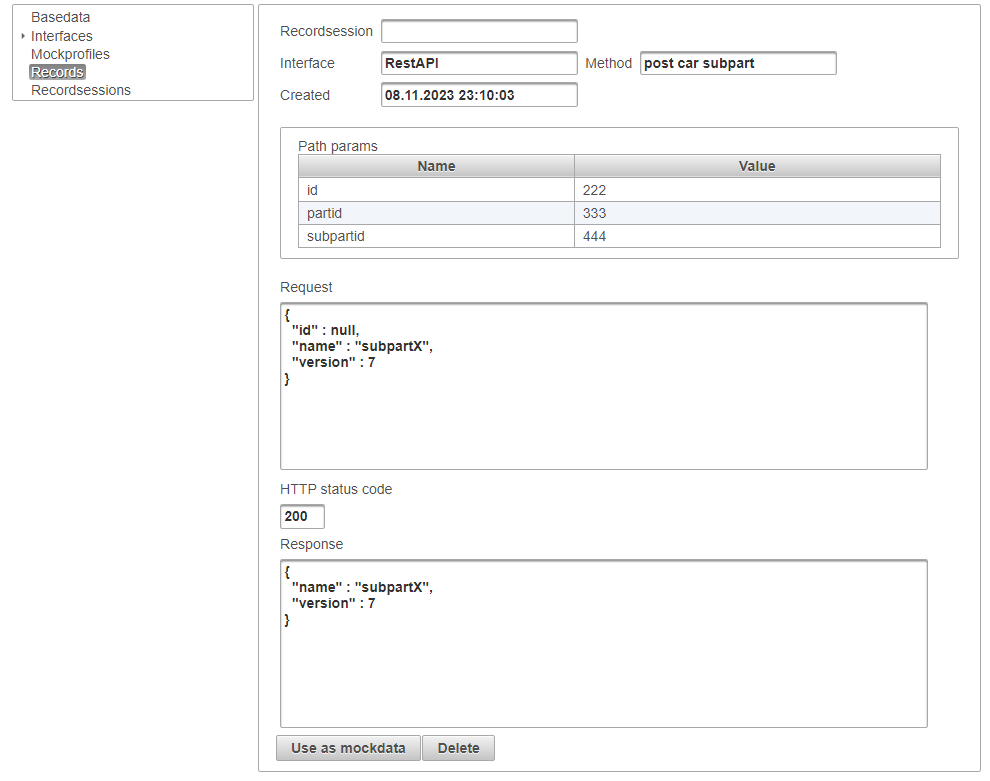
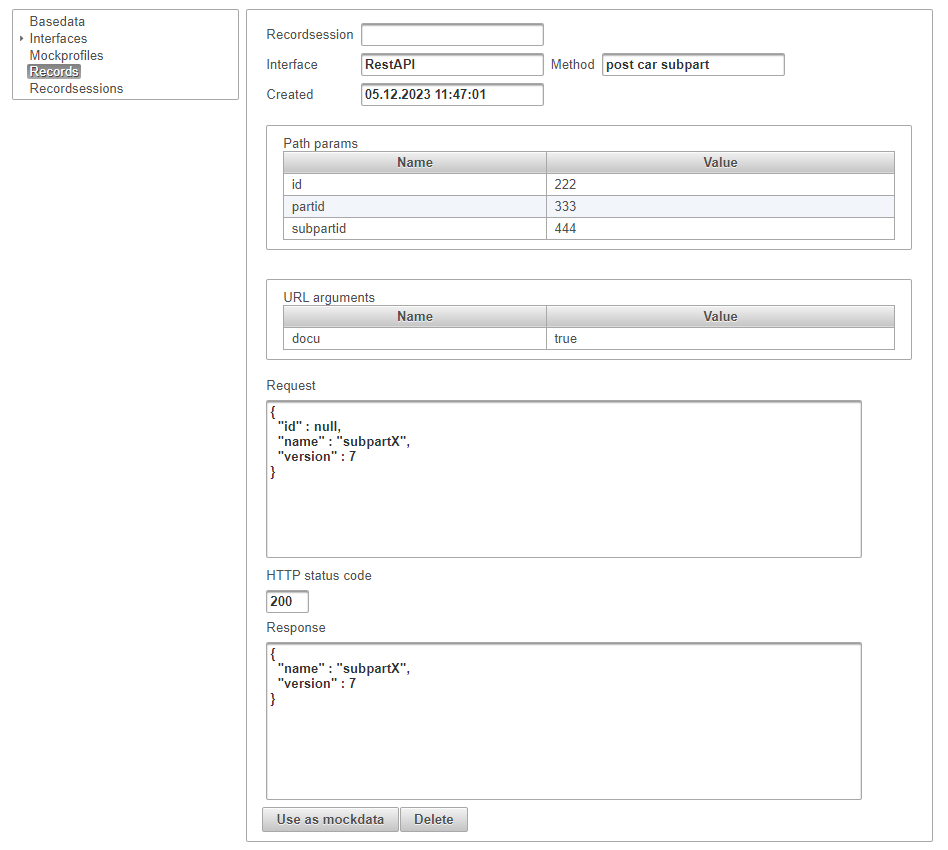
docu urlArgs

diff --git a/README.md b/README.md
@@ -45,7 +45,7 @@
 
 <li>Record calls and use as mockdata
 	<ul>
-		<li>Configurable global, for interface, for method oder only on defined requests</li>
+		<li>Configurable global, for interface, for method or only on defined requests</li>
 		<li>Possibilty to define recordsession for separated records</li>
 	</ul>
 </li>
@@ -299,6 +299,8 @@
 <li>Title</li>
 <li>Active</li>
 <li>Common (Use for assingned mockprofiles and / or global)</li>
+<li>Path params (REST)</li>
+<li>URL arguments (REST)</li>
 <li>Request</li>
 <li>Response</li>
 <li>Created</li>
@@ -405,6 +407,8 @@
 <li>Interface</li>
 <li>Method</li>
 <li>Created</li>
+<li>Path params (REST)</li>
+<li>URL arguments (REST)</li>
 <li>Request</li>
 <li>Response</li>
 </ul>
